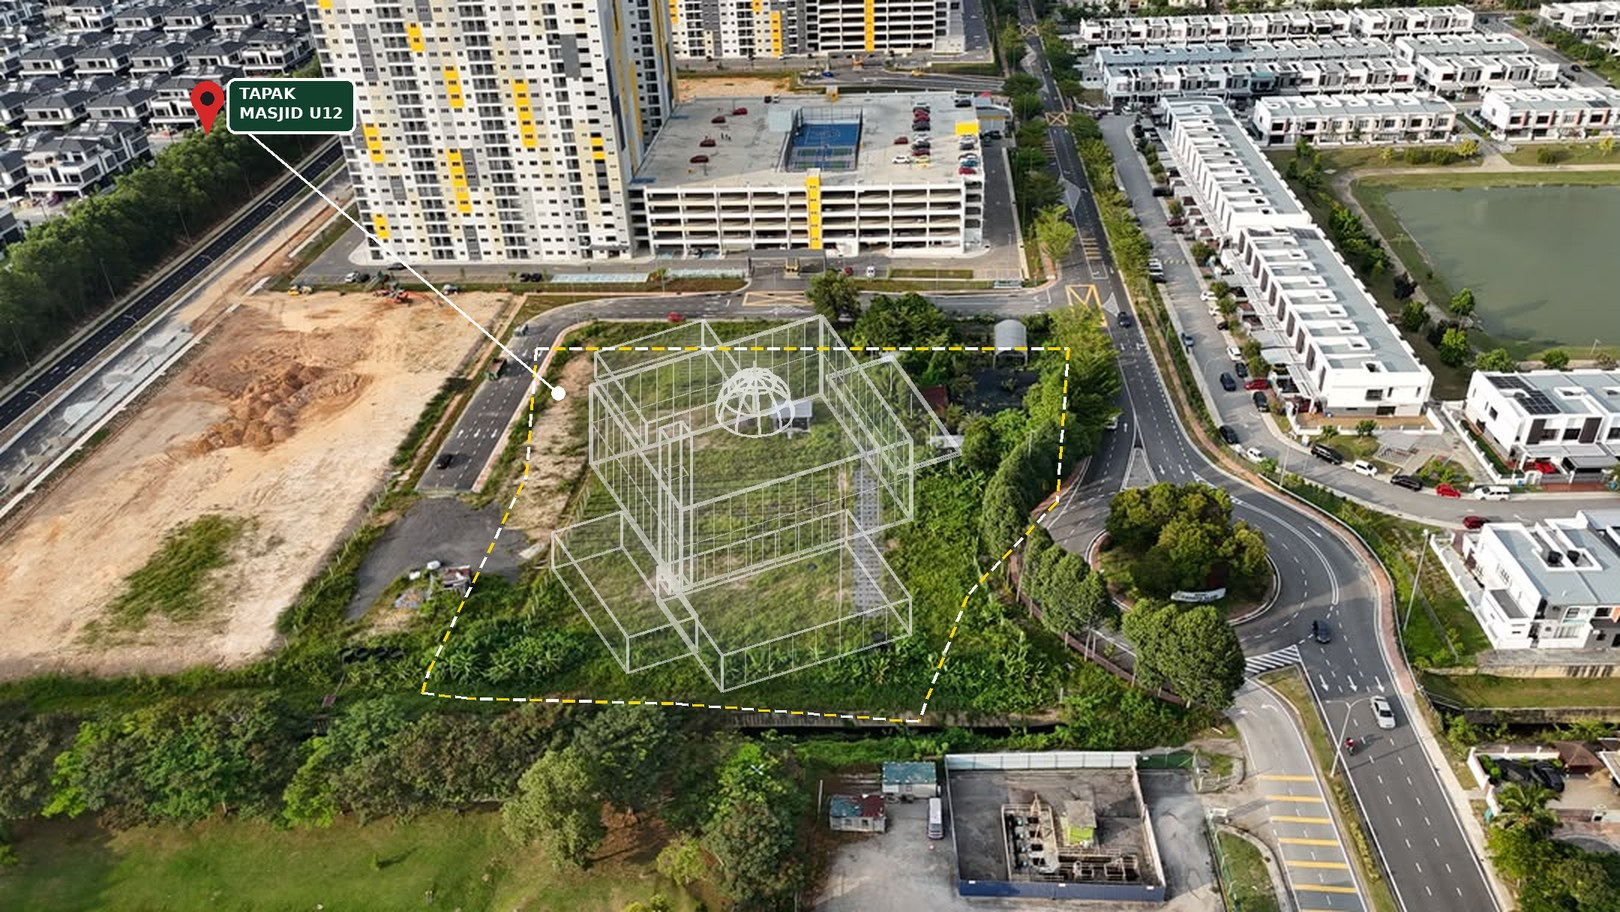
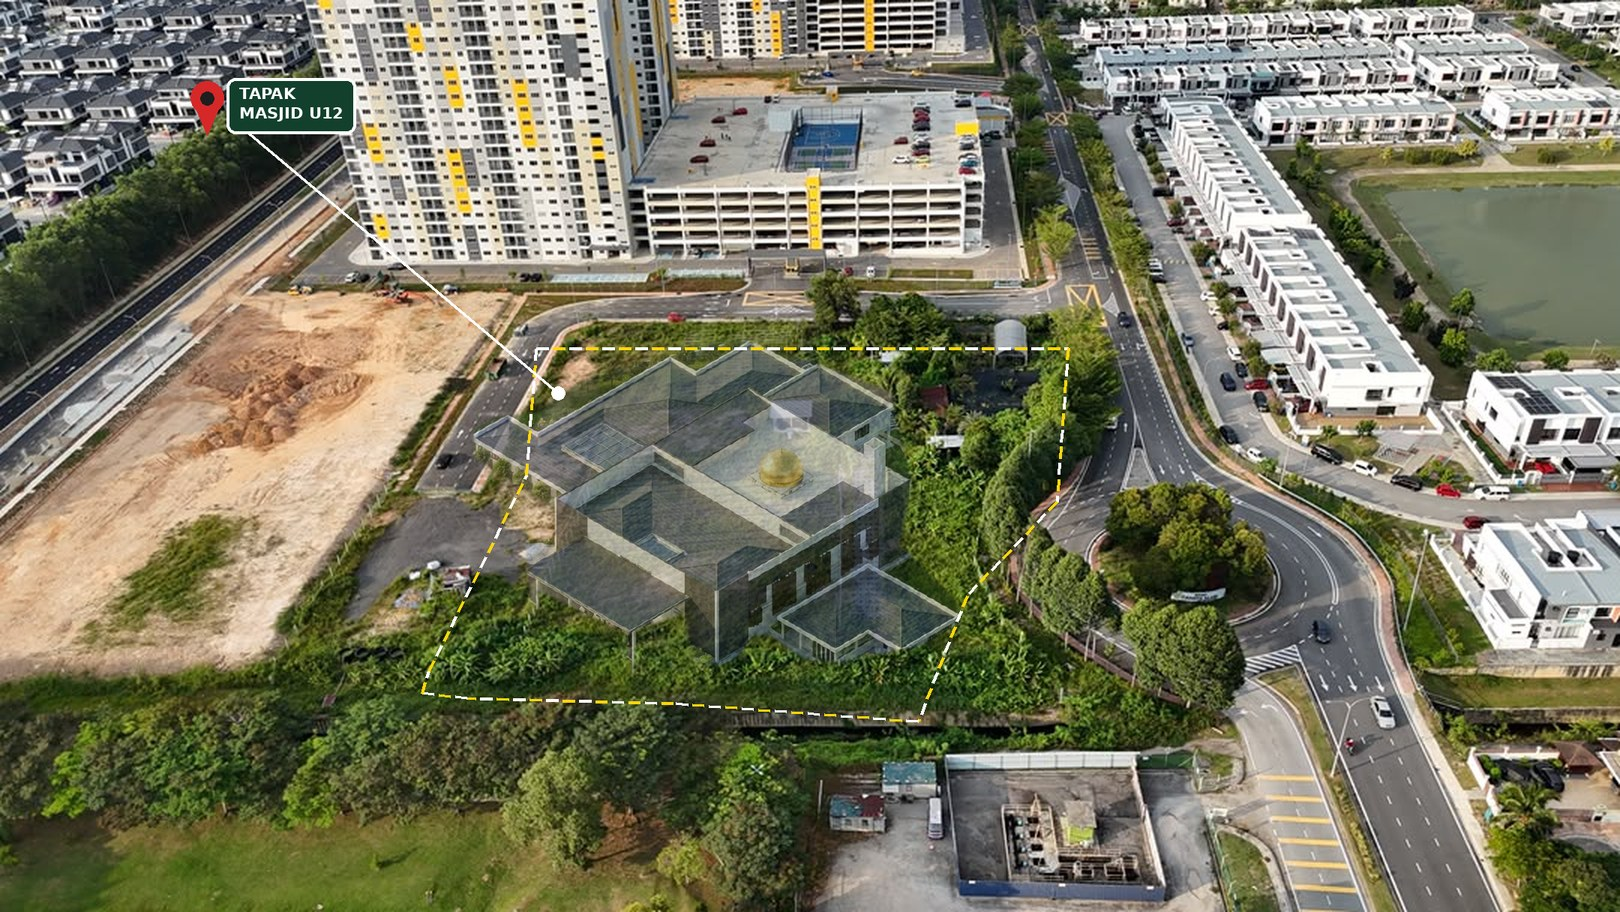
Letak lukisan arkitek masjid sebenar secara lutsinar pada foto lokasi
Claude-Session: https://claude.ai/code/session_019rDfzMse4bgd1cjAXrs2L3

Changed region(s): [[0.2778, 0.3377, 0.6173, 0.7675]]

diff --git a/index.html b/index.html
@@ -386,11 +386,11 @@ footer h4{margin:0 0 12px;font-size:13px;letter-spacing:.14em;text-transform:upp
         <figcaption data-en="The existing site (aerial view)">Tapak sedia ada (pandangan udara)</figcaption>
       </figure>
       <figure class="shot">
-        <button type="button" data-full="img/lokasi-tapak.jpg" data-cap="Visualisasi masjid cadangan di atas tapak sebenar" data-en-cap="Visualisation of the proposed mosque on the actual site"><img src="img/lokasi-tapak.jpg" alt="Model masjid cadangan dilapiskan pada gambar udara tapak sebenar, dengan sempadan tapak bergaris putus-putus" data-en-alt="The proposed mosque modelled over the aerial photo of the actual site, with the site boundary in dashed lines" width="1080" height="608" loading="lazy"></button>
+        <button type="button" data-full="img/lokasi-tapak.jpg" data-cap="Lukisan arkitek masjid cadangan dilapiskan secara lutsinar di atas tapak sebenar" data-en-cap="The architect’s drawing of the proposed mosque, made translucent over the actual site"><img src="img/lokasi-tapak.jpg" alt="Lukisan arkitek masjid cadangan dilapiskan secara lutsinar pada gambar udara tapak sebenar, dengan sempadan tapak bergaris putus-putus" data-en-alt="The architect’s drawing of the proposed mosque, made translucent over the aerial photo of the actual site, with the site boundary in dashed lines" width="1080" height="608" loading="lazy"></button>
         <figcaption data-en="The proposed mosque on the site (visualisation)">Masjid cadangan di atas tapak (visualisasi)</figcaption>
       </figure>
     </div>
-    <p class="note" data-en="The visualisation is indicative only. The building is a simplified massing model based on the proposed site plan; its position, scale and perspective are approximate and do not replace the survey plan or the plans approved by the authorities.">Visualisasi ini hanya sebagai gambaran. Bangunan ialah model ringkas berdasarkan pelan tapak cadangan; kedudukan, skala dan perspektifnya adalah anggaran dan tidak menggantikan pelan ukur atau pelan yang diluluskan pihak berkuasa.</p>
+    <p class="note" data-en="The visualisation is indicative only. The building is the architect’s proposed drawing placed translucently over the site; its position, scale, orientation and perspective are approximate and do not replace the survey plan or the plans approved by the authorities.">Visualisasi ini hanya sebagai gambaran. Bangunan ialah lukisan arkitek cadangan yang dilapiskan secara lutsinar di atas tapak; kedudukan, skala, orientasi dan perspektifnya adalah anggaran dan tidak menggantikan pelan ukur atau pelan yang diluluskan pihak berkuasa.</p>
     <div class="coord">
       <div class="cico"><svg width="28" height="28" viewBox="0 0 24 24" fill="none" stroke="currentColor" stroke-width="1.8" stroke-linecap="round" stroke-linejoin="round" aria-hidden="true"><path d="M12 22s7-6.2 7-12a7 7 0 0 0-14 0c0 5.8 7 12 7 12z"/><circle cx="12" cy="10" r="2.6"/></svg></div>
       <dl>
